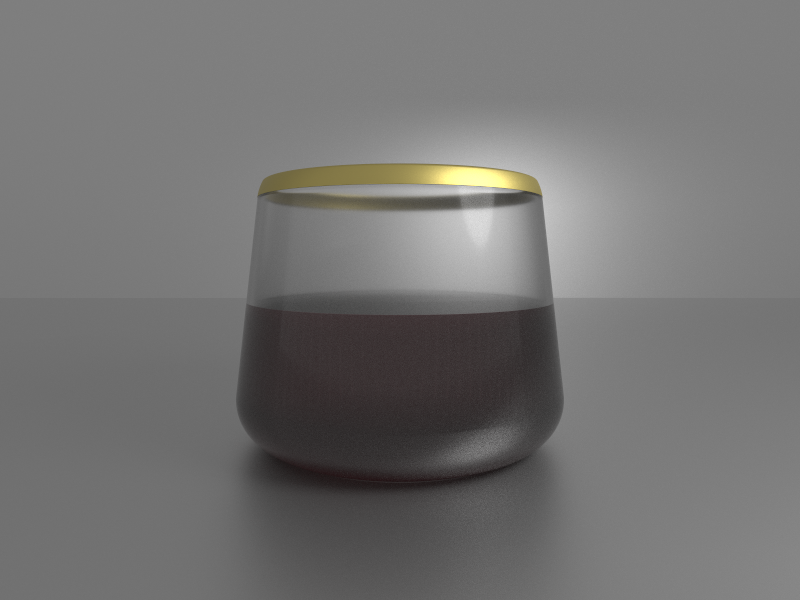
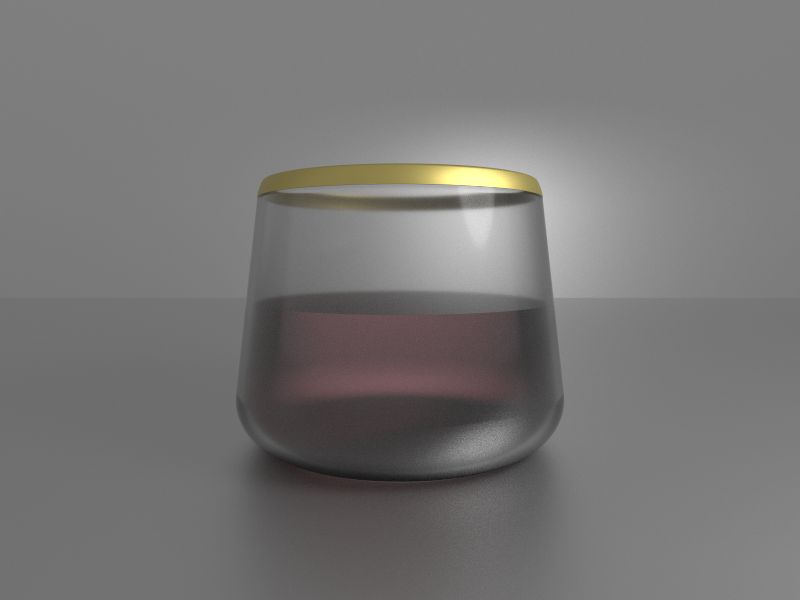
wine glass

diff --git a/content/examples/wine_glass/_index.md b/content/examples/wine_glass/_index.md
@@ -7,7 +7,7 @@ weight: 1
 
 See the full source code [here](https://github.com/markusmoenig/ForgedThoughts/blob/master/examples/wine_glass.ft).
 
-The modeling of the glass, except the materials, is just 9 lines.
+The modeling of the glass, except the materials, is just 10 lines.
 
 ```rust
 // Glass
@@ -26,6 +26,7 @@ interior.scale = 0.96;
 // Fluid
 
 let fluid = interior.copy();
+fluid.scale -= 0.0002;
 fluid.material.rgb = F3("722F37").to_linear();
 fluid.material.transmission = 1.0;
 fluid.material.roughness = 0.5;

diff --git a/content/_index.md b/content/_index.md
@@ -36,7 +36,7 @@ The overall project goals are:
 
 ![Wine Glass](../../wine_glass.png)
 
-The modeling of the glass, except the materials, is just 9 lines.
+The modeling of the glass, except the materials, is just 10 lines.
 
 ```rust
 // Glass
@@ -55,6 +55,7 @@ interior.scale = 0.96;
 // Fluid
 
 let fluid = interior.copy();
+fluid.scale -= 0.0002;
 fluid.material.rgb = F3("722F37").to_linear();
 fluid.material.transmission = 1.0;
 fluid.material.roughness = 0.5;
